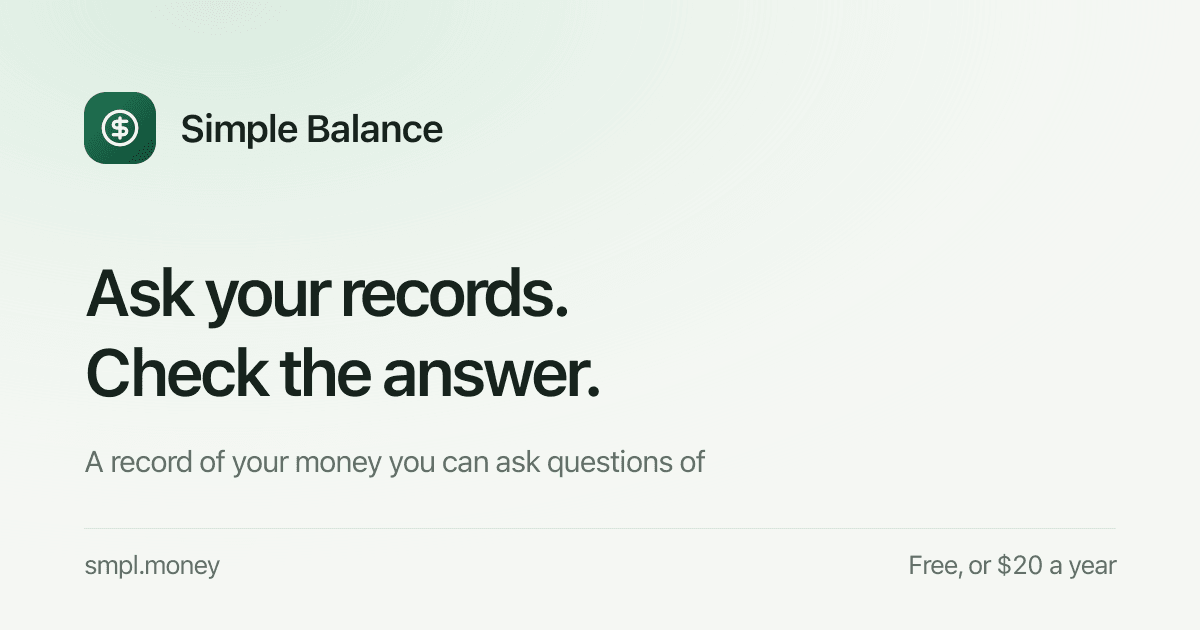
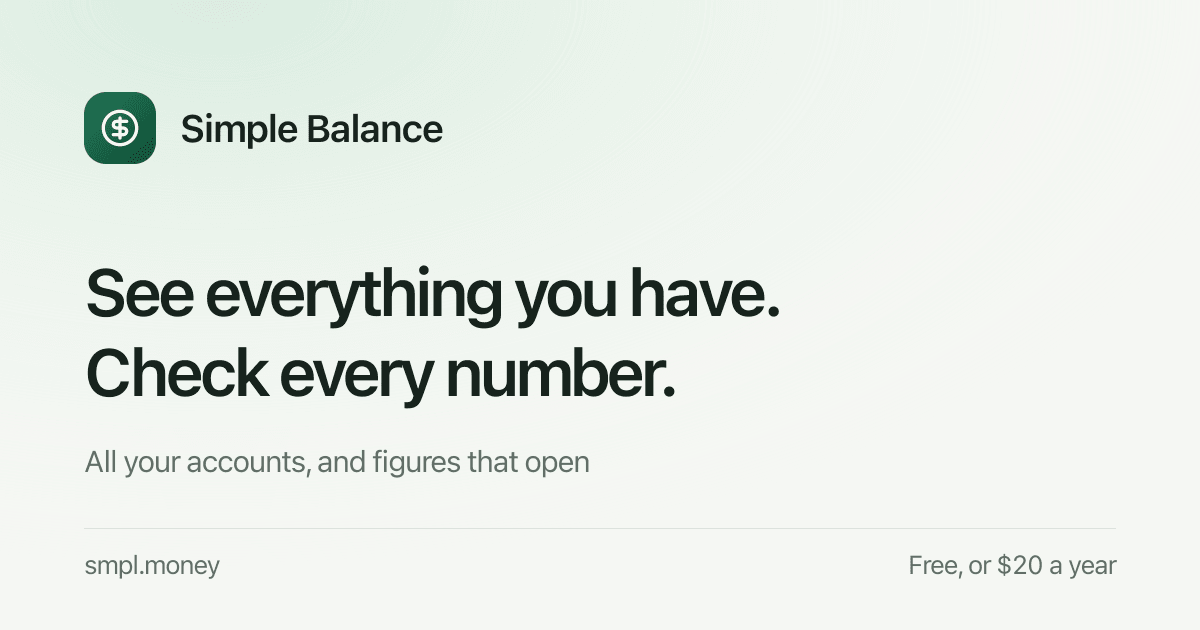
Put the assistant third on the page, not in the headline
Prioritising the agent surface turned into leading on it, which is a
different thing and a worse one. The page opened on "Ask your records a
question" and gave the assistant the hero, the tagline, the social card and
the second section. An assistant is a reason to stay rather than the reason a
stranger reads on: somebody deciding whether this is for them is asking what
it does with their money, not what it does with their chatbot.

The headline is now the pair a reader in this category actually wants —
everything you hold on one page, and any figure you doubt opening into the
entries that made it. The first half alone is table stakes, which eight
competitors open on; the second is the thing most of them cannot offer,
because the common complaint about budgeting apps is that the totals do not
agree and there is no way to find out why. The assistant keeps its own
section, now third, after the four problems rather than before them, and one
clause in the lede for the reader who wants it.

Why it survived review: it was a correction applied without a stop. The
previous commit removed a headline that had to go, and the replacement was
chosen for being the most distinctive claim available rather than for being
the one a stranger arrives wanting. Distinctiveness is what makes a section
worth keeping; it is not on its own what makes a headline.

What was checked, and how. The rendered page was read cold in section order,
[…]

Changed region(s): [[0.0617, 0.4222, 0.6475, 0.5429], [0.2158, 0.5429, 0.5858, 0.6635], [0.0925, 0.7238, 0.5858, 0.754]]

diff --git a/src/content/home.ts b/src/content/home.ts
@@ -29,9 +29,12 @@
  * positioning built on a refusal has to be abandoned the day the refusal
  * ends, and everything written around it goes with it.
  *
- * So the argument is the one thing that stays true either way: this is a
- * record you can interrogate. An assistant can read it, and every answer
- * names the entry behind it.
+ * So the argument is the one thing that stays true either way: everything you
+ * hold on one page, and any figure you doubt opens into the entries that made
+ * it. An assistant reading the same record is a strong second — prominent,
+ * and deliberately not the headline, because a reader deciding whether this
+ * is for them is asking what it does with their money, not what it does with
+ * their chatbot.
  */
 
 export type Problem = {
@@ -113,7 +116,7 @@ export const site = {
    * term with no consumer meaning, and a machine they do not have. What this
    * says instead is the one thing no competitor can say at all.
    */
-  tagline: "A record of your money you can ask questions of, and answers you can check.",
+  tagline: "Everything you have on one page, and any number you doubt opens into what made it.",
   /**
    * The tab and search-result form of the tagline, kept separate because the
    * two have different jobs. `tagline` is a sentence and ends like one;
@@ -121,7 +124,7 @@ export const site = {
    * characters — the full sentence appended to the product name runs past it
    * and loses the half that says what it is.
    */
-  titleTagline: "Ask your records, check the answer",
+  titleTagline: "All your accounts, numbers you can check",
 } as const;
 
 export const heroShot = {
@@ -131,23 +134,27 @@ export const heroShot = {
 
 export const hero = {
   /**
-   * The headline is the thing nothing else in the category offers, and the
-   * thing that stays true however the product gets its data in.
+   * The headline pairs what every reader in this category wants with the one
+   * thing most of them cannot get.
    *
-   * It led on "we never ask for your bank password" for a while. That was
-   * true, and it was a promise about the future made by a page that does not
-   * get to decide the future. Leading on the outcome instead — "know where
-   * your money went" — is the line PocketSmith, Tiller, Quicken and Empower
-   * all already run, which identifies the product as one of a crowd of eight.
+   * "All your accounts in one place" on its own is table stakes — eight
+   * competitors open on it — and "know where your money went" is the line
+   * PocketSmith, Tiller, Quicken and Empower all already run. What makes the
+   * pair distinctive is the second half: the common complaint about budgeting
+   * apps is that the totals do not agree and there is no way to find out why.
    *
-   * What is left is the honest difference: this is a record you can ask
-   * things of, and the answers open.
+   * **Two headlines were tried and rejected before this one.** "We never ask
+   * for your bank password" was true and was a promise about a future this
+   * page does not decide. "Ask your records a question" put the assistant in
+   * the headline, which overstates it: an assistant is a reason to stay, not
+   * the reason a stranger reads on. It has its own section, third on the
+   * page, and a clause here.
    */
-  title: "Ask your records a question. Check the answer yourself.",
+  title: "See everything you have. Check every number.",
   lede:
-    "Simple Balance keeps a proper record of what you earn and what you spend, and an AI " +
-    "assistant can read it — so you can ask in plain words and get an answer that names the " +
-    "entry it came from.",
+    "Every account you hold on one page, each in its own currency, and any figure you doubt " +
+    "opens into the entries that made it. An AI assistant can read the same record, so when it " +
+    "is easier to ask than to look, you can just ask.",
   /**
    * The app is not deployed yet, so this states the situation rather than
    * linking somewhere that 404s (`docs/standards/web.md` 6.1).
@@ -370,11 +377,14 @@ export const privacy = {
  * The agent section, and the page's lead argument.
  *
  * It used to be last, on the reasoning that it is the thing nothing else
- * does — true, and an odd place to put it. It is now the section directly
- * under the hero, because "you can ask your own records a question" is the
- * only claim here a reader cannot get from eight other products, and because
- * it survives the product gaining a bank connection, which the old headline
- * did not.
+ * does — true, and an odd place to put it. It then spent a version *in the
+ * headline*, which is the opposite mistake: an assistant is a reason to stay
+ * rather than the reason a stranger reads on, and a page that opens on it is
+ * answering a question nobody arrived with.
+ *
+ * Third, after the four problems, is where it earns its place — the reader
+ * has been told what this does with their money before being told what it
+ * does with their assistant.
  *
  * The vocabulary it arrives in is still not the reader's. "Ships an MCP
  * server", "a token carries scopes" and a shell transcript reading
@@ -384,7 +394,7 @@ export const privacy = {
 export const agents = {
   /** As `Problem["covers"]`. */
   covers: ["agents", "find-anything"],
-  eyebrow: "The part nothing else does",
+  eyebrow: "If you use an AI assistant",
   title: "Point an assistant at your records and just ask.",
   body:
     "Simple Balance can be connected to an AI assistant, which then has the same reach over your " +
@@ -417,8 +427,8 @@ export const contact = {
 
 export const footer = {
   blurb:
-    "Simple Balance keeps a record of your money you can ask questions of, and answers that name " +
-    "the entry they came from.",
+    "Simple Balance keeps a record of your money where every figure opens into the entries " +
+    "that made it.",
   links: [
     { label: "Pricing", href: "/pricing/" },
     { label: "Privacy", href: "/privacy/" },

diff --git a/src/app/page.tsx b/src/app/page.tsx
@@ -21,14 +21,14 @@ import { SiteStructuredData } from "@/components/structured-data";
  * The homepage.
  *
  * Section order is an argument, not a layout. The reader arrives not knowing
- * what this is: the hero says what it is, **agents comes straight after it**
- * because asking your own records a question is the one claim here a reader
- * cannot get from eight other products, then the problems say why they would
- * want the rest, the showcase shows it, the features say what else is in the
- * box, and privacy answers the question a money product always raises.
+ * what this is: the hero says what it is, the problems say why they would
+ * want it, **agents comes third** because it is the thing nothing else does
+ * and the reader has by then been told what this does with their money, the
+ * showcase shows it, the features say what else is in the box, and privacy
+ * answers the question a money product always raises.
  *
- * Agents used to be last, on the reasoning that it is the thing nothing else
- * does — which is an argument for putting it first.
+ * Agents has been last (wrong — it is the distinctive part) and first (also
+ * wrong — it answers a question nobody arrives with).
  * `docs/standards/content.md` 3.2.
  *
  * Every section is a landmark with its own heading, and the headings step
@@ -63,34 +63,6 @@ export default function HomePage() {
         </div>
       </section>
 
-      <section className="section" aria-labelledby="agents-title">
-        <div className="page band-inner">
-          <div>
-            <p className="eyebrow">{agents.eyebrow}</p>
-            <h2 id="agents-title" className="section-title">
-              {agents.title}
-            </h2>
-            <p className="prose">{agents.body}</p>
-          </div>
-          {/* An exchange, not a shell session. It used to render `$ ledger:stage`
-              and the name of a CSV file, which told a reader who is not a
-              developer that this page was not for them — and the thing being
-              shown is a conversation with an assistant, not a command. */}
-          <pre
-            className="terminal"
-            aria-label="An assistant offering to bring in a statement, waiting to be approved"
-          >
-            <code>
-              {agents.sample.map((line) => (
-                <span key={line.text} className={line.kind === "out" ? undefined : line.kind}>
-                  {line.kind === "prompt" ? `You: ${line.text}` : line.text}
-                  {"\n"}
-                </span>
-              ))}
-            </code>
-          </pre>
-        </div>
-      </section>
       <section className="section" aria-labelledby="problems-title">
         <div className="page">
           <p className="eyebrow">{problemsSection.eyebrow}</p>
@@ -125,6 +97,34 @@ export default function HomePage() {
         </div>
       </section>
 
+      <section className="section" aria-labelledby="agents-title">
+        <div className="page band-inner">
+          <div>
+            <p className="eyebrow">{agents.eyebrow}</p>
+            <h2 id="agents-title" className="section-title">
+              {agents.title}
+            </h2>
+            <p className="prose">{agents.body}</p>
+          </div>
+          {/* An exchange, not a shell session. It used to render `$ ledger:stage`
+              and the name of a CSV file, which told a reader who is not a
+              developer that this page was not for them — and the thing being
+              shown is a conversation with an assistant, not a command. */}
+          <pre
+            className="terminal"
+            aria-label="An assistant offering to bring in a statement, waiting to be approved"
+          >
+            <code>
+              {agents.sample.map((line) => (
+                <span key={line.text} className={line.kind === "out" ? undefined : line.kind}>
+                  {line.kind === "prompt" ? `You: ${line.text}` : line.text}
+                  {"\n"}
+                </span>
+              ))}
+            </code>
+          </pre>
+        </div>
+      </section>
       <section className="section" aria-labelledby="showcase-title">
         <div className="page">
           <p className="eyebrow">{showcase.eyebrow}</p>
